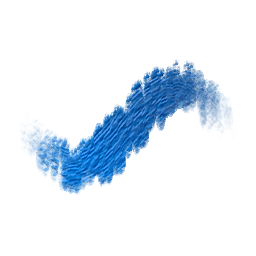
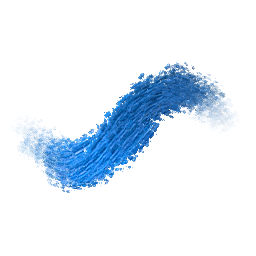
fix(Pincéis J2 Dabber): uma ponta = uma lane (L13/C39) e o Dabber é a esponja REDONDA do Rebelle
A memória: com o Jitter, o casamento geométrico da lane (limiar = r, dab_route) partia o traço de UMA
ponta em 4–7 lanes, cada uma com a sua janela do rasto (Trail, ~10 planos de (2h+1)²). Lei: o Jitter
espalha uma ponta, não nasce outras — BrushSpec::limiar_da_lane = r + 2·alcance do Jitter (sem Jitter,
o r de sempre: as miniaturas de fábrica dos outros 27 ao bit, medido com os dois binários). Pico do gesto
na lei crua: 467 → 165 MiB (r300), 3 955 → 1 221 MiB (r1000/1100); o Dabber regera-se completo.

A lei das lanes medida contra a bateria refeita do Rebelle: juntar as lanes NÃO cura o «rasgado»
(rugosidade 2,97 → 2,96); o rasgado é a lâmina de pé do Oil Bristle (dab_flatten 0,68) espalhada pelo
Jitter. O Dabber passa a redondo, Jitter 0,4, paperGate 1, bristleNoiseLight 0,55 (grelha de 16
variantes à largura do Rebelle): régua 346 → 380/420, rugosidade ✗ 20 → 0, vertical 29 → 38 px (38).

Portões: a_memoria_do_dabber_cabe (filho por raio, 1 lane e pico ≤ 230/1 800 MiB) e o_dabber_e_redondo
(de pé ÷ deitado da foto ± 3 ruídos); midias: raio do Dabber 18,5 pela lei nova. Mutações: limiar r
→ 4 lanes, 299 MiB (sangra); o Dabber de antes → Chato 0,750 (sangra).

Changed region(s): [[0.0625, 0.2188, 0.9062, 0.7812]]

diff --git a/crates/ph2d-tool-painter/tests/it/presets_de_fabrica.rs b/crates/ph2d-tool-painter/tests/it/presets_de_fabrica.rs
@@ -187,7 +187,9 @@ pub(super) fn largura_de(p: &Preset, raio: f32, crua: bool) -> f32 {
 
 /// A lei CRUA medida: raio do motor → largura, numa fila do MAIOR para o menor com `PH2D_LEI_FIOS` trabalhadores
 /// (por omissão um por raio). ⚠ A memória é a do raio: o Dabber (Jitter 0,5) a 64 de uma vez passava dos 48 GB; depois da
-/// margem da janela pelo CAMINHO (`Trail::on_segment_no_caminho`) 21,9 GiB do tecto de 24 (prompt 53) — perto: `PH2D_LEI_FIOS`.
+/// margem da janela pelo CAMINHO (`Trail::on_segment_no_caminho`) 21,9 GiB do tecto de 24 (prompt 53); com UMA lane por
+/// ponta (L13) o raio 1 100 pesa 1,7 GiB (era 4,3) — mas a fatia é da LINHA e o `/tmp` (tmpfs) dos agentes conta nela
+/// (14,6 G de `shmem` a 20/10): o Dabber regerou-se a `PH2D_LEI_FIOS=4`, pico 5,3 GiB, 4,8 min (03_MOTORES §4 L13).
 fn tabela_de_largura(p: &Preset) -> Vec<[f64; 2]> {
     use std::sync::atomic::{AtomicUsize, Ordering};
     let raios = raios_da_lei();
@@ -244,8 +246,7 @@ fn gera_os_presets_de_fabrica() {
             },
             texturas: Default::default(),
         };
-        // `PH2D_REGERA_SO_MINIATURA=1`: a tabela do ficheiro fica (o Dabber, de Jitter 0,5, estoura a fatia de 24 G na
-        // lei da largura a raio 1 100 — as lanes do C39; J2 20/10).
+        // `PH2D_REGERA_SO_MINIATURA=1`: a tabela do ficheiro fica (só a miniatura, quando a lei da largura não mudou).
         if std::env::var("PH2D_REGERA_SO_MINIATURA").as_deref() != Ok("1") {
             preset.parametros.width_table = tabela_de_largura(&preset);
         }
@@ -266,9 +267,10 @@ fn gera_os_presets_de_fabrica() {
             .map(|[r, l]| format!("{r}→{l}"))
             .collect();
         println!(
-            "[fabrica] {:<14} miniatura fnv {:#018x} · largura {}",
+            "[fabrica] {:<14} miniatura fnv {:#018x} · pico {:.0} MiB · largura {}",
             r.nome,
             fnv1a(&preset.miniatura.rgba),
+            pico_mib(),
             larguras.join(" ")
         );
         if escreve {
@@ -550,5 +552,136 @@ fn sonda_ruido_da_largura() {
                 2.0 * r
             );
         }
+    }
+}
+
+/// O pico de memória do processo (`VmHWM`), em MiB.
+fn pico_mib() -> f64 {
+    std::fs::read_to_string("/proc/self/status")
+        .unwrap_or_default()
+        .lines()
+        .find_map(|l| l.strip_prefix("VmHWM:"))
+        .and_then(|r| r.split_whitespace().next()?.parse::<f64>().ok())
+        .unwrap_or(0.0)
+        / 1024.0
+}
+
+/// **Sonda da MEMÓRIA da lei da largura** (J2 Dabber, L13): UM raio por processo (`VmHWM` é do processo), o traço
+/// de [`largura_de`] com `PH2D_SONDA_PRESET` (Dabber), `PH2D_SONDA_RAIO`, `PH2D_SONDA_CRUA` (1), `PH2D_SONDA_JITTER`
+/// (o do preset) e `PH2D_SONDA_QUADROS` (os da lei; `0` = só o gesto). Imprime o pico depois do gesto e depois da
+/// água, as lanes e as janelas. O portão [`a_memoria_do_dabber_cabe`] corre-a num processo filho.
+#[test]
+#[ignore = "sonda: a memória da lei da largura, um raio por processo"]
+fn sonda_memoria_da_lei() {
+    use ph2d_editor_core::{Tool, tool::RasterEditTool};
+    let var = |k: &str| std::env::var(k).ok();
+    let nome = var("PH2D_SONDA_PRESET").unwrap_or_else(|| "Dabber".into());
+    let raio: f32 = var("PH2D_SONDA_RAIO").map_or(300.0, |v| v.parse().unwrap());
+    let crua = var("PH2D_SONDA_CRUA").as_deref() != Some("0");
+    let quadros: u32 = var("PH2D_SONDA_QUADROS").map_or(QUADROS_DA_LEI, |v| v.parse().unwrap());
+    let mut p = ficheiros_de_fabrica()
+        .into_iter()
+        .map(|(_, b)| ler(&b).unwrap())
+        .find(|p| p.parametros.name == nome)
+        .expect("o preset de fábrica");
+    // `PH2D_SONDA_RECEITA=1`: o preset da RECEITA de hoje (antes de o regerar), com a tabela do ficheiro.
+    if var("PH2D_SONDA_RECEITA").as_deref() == Some("1") {
+        let r = RECEITAS.iter().find(|r| r.nome == nome).expect("a receita");
+        let tabela = std::mem::take(&mut p.parametros.width_table);
+        p.parametros = parametros(r);
+        p.parametros.width_table = tabela;
+    }
+    if let Some(j) = var("PH2D_SONDA_JITTER") {
+        p.parametros
+            .brush
+            .insert("jitter".into(), serde_json::json!(j.parse::<f64>().unwrap()));
+    }
+    let escala = if crua { (raio / 500.0).max(1.0) } else { 1.0 };
+    let h = ((raio * 6.0) as u32 + 80).max(120);
+    let w = super::sonda_gestos::W;
+    let cy = h as f32 * 0.5;
+    let mut t = PainterTool::default();
+    t.set_source(vec![255u8; (w * h * 4) as usize], w, h);
+    t.set_wet_relogio_fixo(true);
+    assert!(t.wet_preset_aplicar(&direito(&p)).is_empty());
+    if crua {
+        t.set_wet_largura_crua(escala);
+    }
+    t.set_brush_size_px(raio / escala);
+    t.set_brush_color_srgb8(super::sonda_gestos::AZUL);
+    let t0 = std::time::Instant::now();
+    super::sonda_gestos::gesto(&mut t, &[[100.0, cy], [900.0, cy]], 3.0, |_| 1.0);
+    let gesto = pico_mib();
+    let mut janelas = Vec::new();
+    t.wet_sonda_motor(|e| {
+        janelas = e
+            .lane_trails
+            .iter()
+            .map(ph2d_wet_paint::trail::Trail::window_half_for_measure)
+            .collect();
+    });
+    for _ in 0..quadros {
+        t.on_tick(1000.0 / 60.0);
+    }
+    let (px, pw, ph) = t.run_full();
+    println!(
+        "[memoria] {nome} raio {raio} crua {crua} · tela {w}×{h} · gesto {gesto:.0} MiB · água {:.0} MiB · lanes {} \
+         · meias-larguras {janelas:?} · largura {:.1} · {:.1} s",
+        pico_mib(),
+        janelas.len(),
+        largura_que_se_ve(&px, pw, ph),
+        t0.elapsed().as_secs_f64()
+    );
+}
+
+/// O pico do GESTO (MiB) e as lanes da [`sonda_memoria_da_lei`] num processo filho (o `VmHWM` é do processo).
+fn memoria_num_filho(raio: f32) -> (f64, usize) {
+    let out = std::process::Command::new(std::env::current_exe().unwrap())
+        .args([
+            "presets_de_fabrica::sonda_memoria_da_lei",
+            "--exact",
+            "--ignored",
+            "--nocapture",
+            "--test-threads",
+            "1",
+        ])
+        .env("PH2D_SONDA_RAIO", raio.to_string())
+        .env("PH2D_SONDA_QUADROS", "0")
+        .env_remove("PH2D_SONDA_JITTER")
+        .env_remove("PH2D_SONDA_PRESET")
+        .output()
+        .expect("o processo filho da sonda");
+    let txt = String::from_utf8_lossy(&out.stdout);
+    let linha = txt
+        .split("[memoria]")
+        .nth(1)
+        .unwrap_or_else(|| panic!("a sonda não respondeu a raio {raio}:\n{txt}"));
+    let num = |k: &str| -> f64 {
+        linha.split(k).nth(1).unwrap().split_whitespace().next().unwrap().parse().unwrap()
+    };
+    println!("[memoria]{}", linha.lines().next().unwrap_or(""));
+    (num(" gesto "), num(" lanes ") as usize)
+}
+
+/// Os tectos do PICO do gesto do Dabber na lei crua da largura (a do gerador), em MiB, medidos 20/10 (L13, smoke,
+/// um processo por raio; 03_MOTORES §4 L13):
+///
+/// | raio | limiar `r` (o mutante: 4 lanes) | uma ponta = uma lane | tecto |
+/// |---|---|---|---|
+/// | 300  | 298 | 165 | 230 |
+/// | 1000 | 2 966 | 1 221 | 1 800 |
+///
+/// (O Dabber de antes — lâmina, Jitter 0,5 — com o limiar `r`: 467 a raio 300 e 3 955 a 1 100, 6–7 lanes.)
+const TECTO_DA_MEMORIA_MIB: [(f32, f64); 2] = [(300.0, 230.0), (1000.0, 1800.0)];
+
+/// ⭐ **A MEMÓRIA do Dabber cabe** (L13, EXAME §3.6): o Jitter espalha UMA ponta — o traço inteiro numa lane — e o
+/// pico do gesto a raio 300 e 1000 fica abaixo do tecto medido. Mutação: o limiar da lane sem o Jitter
+/// (`BrushSpec::limiar_da_lane` = `r`) parte o traço em lanes e passa os dois tectos.
+#[test]
+fn a_memoria_do_dabber_cabe() {
+    for (raio, tecto) in TECTO_DA_MEMORIA_MIB {
+        let (pico, lanes) = memoria_num_filho(raio);
+        assert_eq!(lanes, 1, "raio {raio}: o Jitter partiu o traço em {lanes} lanes");
+        assert!(pico <= tecto, "raio {raio}: pico do gesto {pico:.0} MiB > tecto {tecto:.0}");
     }
 }

diff --git a/crates/ph2d-tool-painter/tests/it/midias_de_fabrica.rs b/crates/ph2d-tool-painter/tests/it/midias_de_fabrica.rs
@@ -234,7 +234,7 @@ const MIDIAS: [Midia; 24] = [
     Midia { preset: "Scratch", foto: "scratch", raio: 15.71, metricas: &[(Cobertura, 0.255), (Textura, 19.780), (Borda, 0.591), (Orla, 13.0), (Cv, 0.126), (Cruzamento, 0.652), (Largura, 24.0)] },
     Midia { preset: "Square Hard", foto: "squarehard", raio: 15.50, metricas: &[(Cobertura, 0.705), (Textura, 20.884), (Borda, 0.856), (Cv, 0.077), (Cruzamento, 0.579), (Largura, 31.0)] },
     Midia { preset: "Wax Scrape", foto: "waxscrape", raio: 19.5, metricas: &[(Cobertura, 0.763), (Textura, 16.691), (Borda, 0.586), (Largura, 36.0)] },
-    Midia { preset: "Dabber", foto: "dabber", raio: 19.5, metricas: &[(Cobertura, 0.840), (Textura, 10.715), (Borda, 0.588), (Orla, 5.0), (Largura, 36.0)] },
+    Midia { preset: "Dabber", foto: "dabber", raio: 18.5, metricas: &[(Cobertura, 0.840), (Textura, 10.715), (Borda, 0.588), (Orla, 5.0), (Largura, 36.0)] },
 ];
 
 /// O raio da cena da mídia `nome` (a largura da foto do Rebelle), se ela tem foto.
@@ -456,6 +456,24 @@ fn cada_preset_parece_a_sua_midia() {
         }
     }
     assert!(falhas.is_empty(), "{}", falhas.join("\n"));
+}
+
+/// ⭐ **O Dabber é uma esponja REDONDA** (L13, J2 20/10): o traço de pé tem a largura do deitado, como na foto
+/// (`mede_familia_c.py` no `dabber.png`: 37 / 36 = 1,028). O Chato não entra no vale do [`cada_preset_parece_a_sua_midia`]
+/// (o Wet Round também é redondo: não distingue a mídia), mas é o que distingue o Dabber da lâmina de pé do Oil
+/// Bristle que o Jitter espalhava — o «rasgado» (bancada: rugosidade 2,97 × 1,05 do Rebelle; Chato 0,74). Mutação:
+/// o Dabber de antes (`dab_flatten` 0,68) sangra.
+#[test]
+fn o_dabber_e_redondo() {
+    const CHATO_DA_FOTO: f64 = 37.0 / 36.0;
+    let m = MIDIAS.iter().find(|m| m.preset == "Dabber").unwrap();
+    let medida = cena_seca(&de_fabrica("Dabber"), m.raio, &[]);
+    let chato = Metrica::Chato.de(&medida);
+    println!("[dabber] Chato {chato:.3} (foto {CHATO_DA_FOTO:.3})");
+    assert!(
+        (chato - CHATO_DA_FOTO).abs() <= 3.0 * Metrica::Chato.ruido(),
+        "o Dabber de pé ÷ deitado {chato:.3}, a foto {CHATO_DA_FOTO:.3}: a ponta não é a esponja redonda"
+    );
 }
 
 /// Os pares que cabem um no vale do outro (a matriz do `ferramentas/avalia_53.py`): o portão pede a foto MAIS PERTO.

diff --git a/crates/ph2d-tool-painter/tests/it/receitas_de_fabrica.rs b/crates/ph2d-tool-painter/tests/it/receitas_de_fabrica.rs
@@ -585,12 +585,17 @@ pub const RECEITAS: [Receita; PRESETS_DE_FABRICA] = [
         ..SOFT_PASTEL
     },
     // `dabberc_032`: o Oil Bristle de cerdas largas, mais relevo e a ponta espalhada (jitter) — a esponja.
+    // L13 (J2, 20/10): a esponja é REDONDA (o vertical do Rebelle tem a largura do deitado: 38/38) e morde o papel; a
+    // lâmina de pé do Oil Bristle espalhada pelo Jitter era o «rasgado» (rugosidade 2,97 × 1,05). Grelha flatten 0 ×
+    // jitter 0–0,5 × paperGate 0–1 à largura do Rebelle: 0,4 · 1 = 390/420 (era 346), rugosidade 0 ✗ (eram 20).
     Receita {
         grupo: "Dabber",
         nome: "Dabber",
         bristle_size: 2.0,
         hardness: 0.6,
         size_px: Some(51.0),
+        gate: 1.0,
+        achatado: Some((0.0, 90)),
         extras: &[
             ("felt", 0.05),
             ("bristleStrength", 2.0),
@@ -599,13 +604,15 @@ pub const RECEITAS: [Receita; PRESETS_DE_FABRICA] = [
             ("bristleLaneWidth", 1.5),
             ("bristleLift", 0.4),
             ("bristleNoiseSat", 0.3),
-            ("bristleNoiseLight", 0.25),
+            // O grão claro da esponja: as duas fotos do Rebelle cercam-no (a da bateria: textura do recto ≤ ~11, 0,6 dá
+            // 11,3 ✗; a do 52 seca: ≥ 9,6, o vale do Wet Round) — 0,55 dá 10,9 e 9,67 (0,25: 9,9 e 8,1 ✗).
+            ("bristleNoiseLight", 0.55),
             ("bristleHeight", 0.75),
             ("pigmentSpacing", 0.0),
             ("capsuleMaxPx", 2.0),
             ("pressureSizeCurve", 0.25), ("pressureOpacity", 1.0), ("pressureOpacityCurve", 3.0),
         ],
-        pincel: &[("jitter", "0.5")],
+        pincel: &[("jitter", "0.4")],
         ..OIL_BRISTLE
     },
 ];

diff --git a/crates/ph2d-painter-brush/src/spec/queries.rs b/crates/ph2d-painter-brush/src/spec/queries.rs
@@ -447,6 +447,20 @@ impl BrushSpec {
         }
     }
 
+    /// **Até onde um dab é da MESMA ponta** (a lane do Wet, L13/C39): o raio mais os dois discos do Jitter — dois
+    /// dabs vizinhos do mesmo pincel caem até `2 × alcance` um do outro. O Jitter espalha UMA ponta, não nasce
+    /// outras: com o limiar `r` o Dabber (Jitter 0,5) partia-se em 5–7 lanes, cada uma com a sua janela (4,3 GiB a
+    /// raio 1 100 → 1,7). Sem Jitter, o `r` de sempre. Medido: `docs/Painter/Pinceis/03_MOTORES.md` §4 L13.
+    #[must_use]
+    pub fn limiar_da_lane(&self, radius: f32) -> f32 {
+        let alcance = if self.stroke_method.allows_jitter() {
+            self.alcance_do_jitter(radius)
+        } else {
+            0.0
+        };
+        (radius + 2.0 * alcance).max(4.0)
+    }
+
     /// **O comprimento do traço-ponto muda alguma coisa?** — só com o Dash Ratio abaixo de `1`: com
     /// ele a `1`, o [`Self::dash_on`] liga todo carimbo, qualquer que seja o comprimento.
     #[must_use]

diff --git a/crates/ph2d-tool-painter/src/tool/paint/wetpaint/dab_route.rs b/crates/ph2d-tool-painter/src/tool/paint/wetpaint/dab_route.rs
@@ -231,7 +231,7 @@ impl PainterTool {
             let li = if erasing {
                 0
             } else {
-                let thr = d.radius_px.max(4.0);
+                let thr = brush.limiar_da_lane(d.radius_px);
                 let mut best = thr * thr;
                 let mut lane = None;
                 for (i, l) in sess.lanes.iter().enumerate() {
